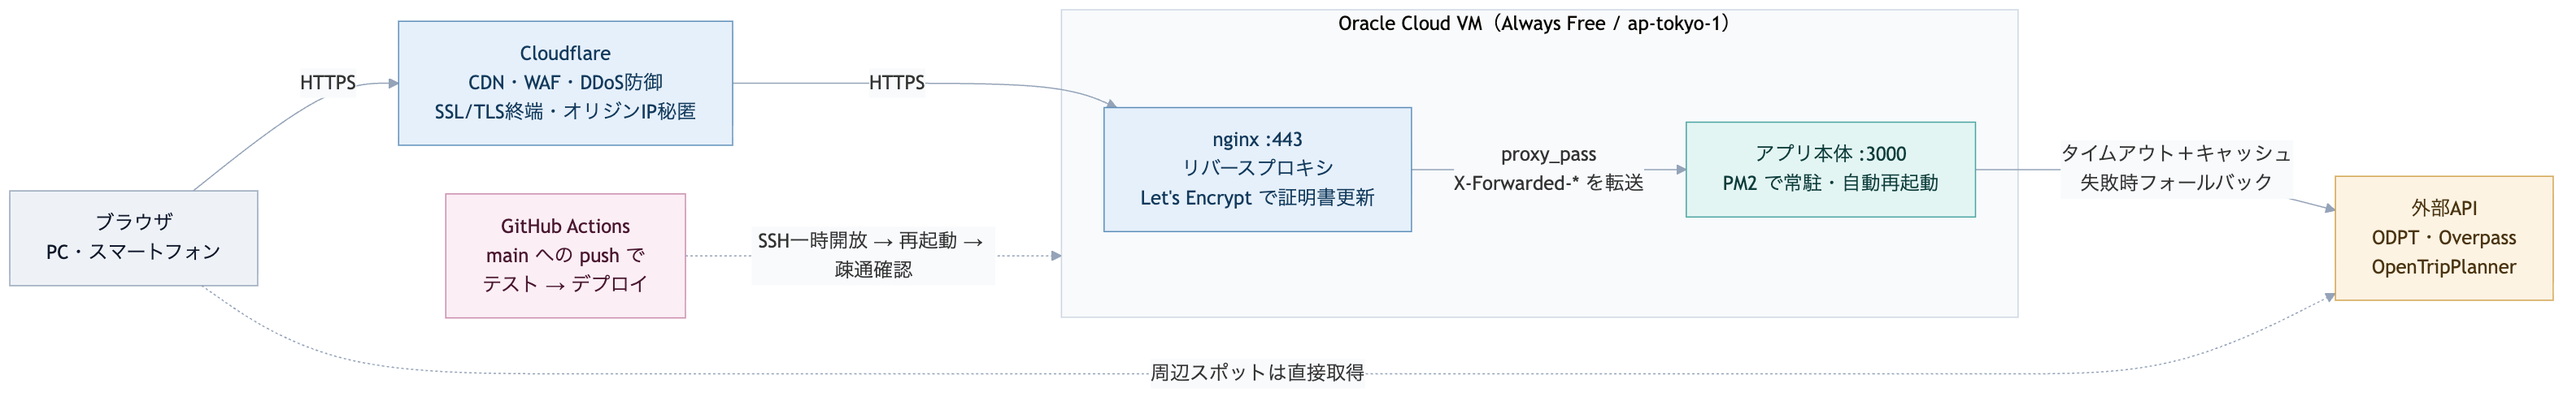
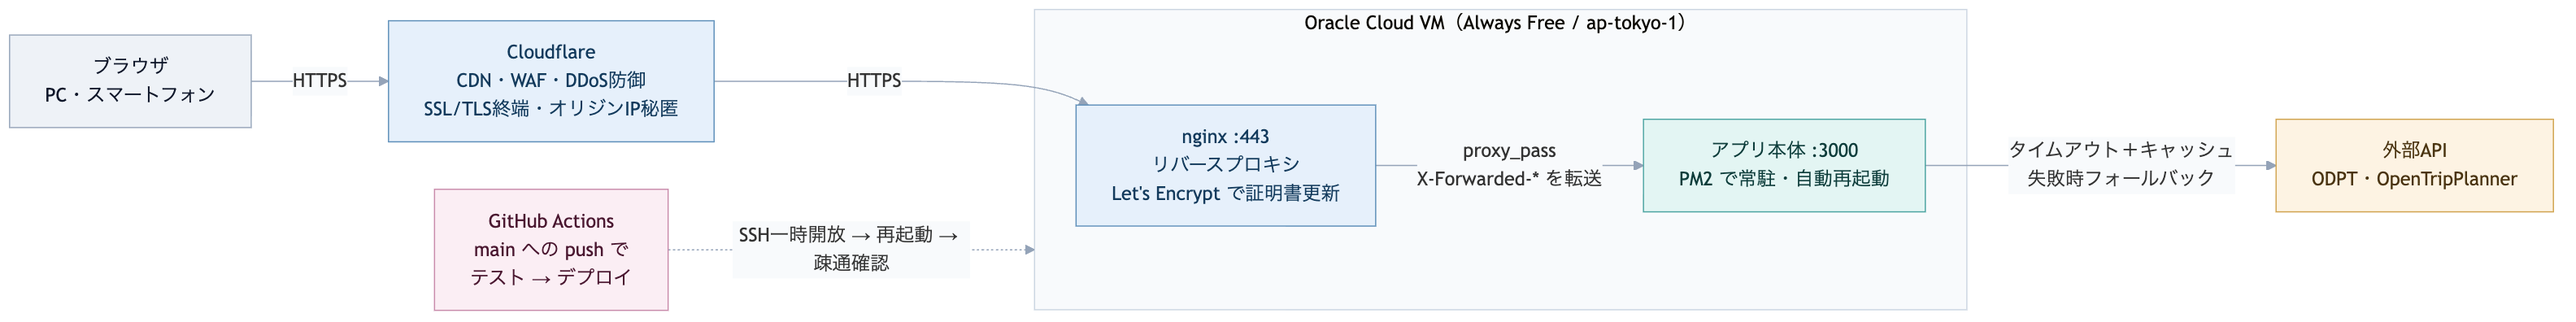
docs: drop the Overpass spot search from README diagrams
Remove /api/spots, poiService and Overpass from the server and infra
diagrams, the directory layout and the notes, and re-render the diagram
images with mermaid-cli 11 (12 no longer accepts -w).

Claude-Session: https://claude.ai/code/session_016Zu1MzDvo47AJQ9TPKMMMa

diff --git a/README.md b/README.md
@@ -84,7 +84,6 @@ flowchart LR
     subgraph RT["APIルート app/api/*/route.ts"]
       R1["GET /api/stations<br/>駅マスタ"]
       R2["POST /api/center<br/>中心駅の算出"]
-      R3["GET /api/spots<br/>GET /api/spot-categories"]
       R4["GET /api/train-information"]
       R5["GET /api/health<br/>デプロイ後の疎通確認"]
     end
@@ -95,7 +94,6 @@ flowchart LR
       GRF["stationGraph<br/>ダイクストラ法<br/>エッジ上限 12km"]
       FRE["fareEstimate<br/>運賃の概算"]
       RPV["routeProvider<br/>経路APIの差し替え口"]
-      POI["poiService<br/>Overpass クエリ組立"]
       ODP["odptTrainInformation<br/>正規化・キャッシュ"]
     end
   end
@@ -104,7 +102,6 @@ flowchart LR
 
   subgraph EX["外部API（すべて任意）"]
     E1["ODPT<br/>駅データ拡張・運行情報"]
-    E2["Overpass API<br/>周辺スポット"]
     E3["OpenTripPlanner<br/>所要時間・運賃"]
   end
 
@@ -112,13 +109,10 @@ flowchart LR
   UI --> R1
   UI --> R2
   UI --> R4
-  UI -. "直接叩けない時だけ" .-> R3
-  UI -. "既定は直接取得" .-> E2
 
   R1 --> REPO
   R2 --> REPO
   R2 --> CTR
-  R3 --> POI
   R4 --> ODP
 
   CTR --> GRF
@@ -128,7 +122,6 @@ flowchart LR
   REPO --> D
   REPO -. "ODPT_TOKEN 設定時" .-> E1
 
-  POI --> E2
   ODP --> E1
   RPV -. "ROUTING_PROVIDER=otp" .-> E3
 
@@ -140,10 +133,10 @@ flowchart LR
   classDef ci fill:#fbeef4,stroke:#c98bab,color:#4a1730
 
   class UI,PG client
-  class R1,R2,R3,R4,R5 route
-  class REPO,CTR,GRF,FRE,RPV,POI,ODP logic
+  class R1,R2,R4,R5 route
+  class REPO,CTR,GRF,FRE,RPV,ODP logic
   class D data
-  class E1,E2,E3 ext
+  class E1,E3 ext
 ```
 
 > Mermaid が描画されない環境向けに，同じ図の画像も置いています：[SVG](assets/architecture-server.svg) ／ [PNG](assets/architecture-server.png)
@@ -152,7 +145,7 @@ flowchart LR
 
 - **外部APIは無くても動く**：`data/` の同梱データと距離概算へ自動フォールバックするため，トークン未設定でも全機能が成立します．
 - **重い処理は1回だけ**：駅マスタのマージと駅グラフの構築は初回リクエストで作ってプロセス内に保持し，以降は使い回します．
-- **周辺スポットは Google マップへ渡す**：画面ではカテゴリを選んで Google マップの検索を開くだけで，外部APIは呼びません．図の `/api/spots` と Overpass は旧方式の名残で，現在の画面からは使っていません．
+- **周辺スポットは Google マップへ渡す**：画面ではカテゴリを選んで Google マップの検索を開くだけで，本サービスから外部APIは呼びません．
 
 ### 画面の構成
 
@@ -187,7 +180,6 @@ EkiHub/
 │   ├── meet/[token]/          # 共有グループの集合ページ（予定・投票）
 │   ├── themes/                # 8種のデザインテーマのCSS
 │   └── api/                   # center / stations / train-information / health と会員系のAPI
-│                              # （spots / spot-categories は旧方式の名残で，画面からは未使用）
 ├── src/
 │   ├── components/            # React コンポーネント（入力フォーム・結果カード・地図など）
 │   ├── hooks/                 # 駅マスタ・算出・履歴・共有URLなどのフック
@@ -202,8 +194,7 @@ EkiHub/
 │   ├── fareEstimate.js        # 距離からの運賃概算
 │   ├── odptTrainInformation.js# ODPT運行情報の取得・正規化・キャッシュ
 │   ├── routeProvider.js       # 経路API抽象化（Strategy Pattern・差し替え式）
-│   ├── stationKana.js         # 駅名の読みの補正
-│   └── poiService.js          # 周辺スポット取得（Overpass．現在の画面からは未使用）
+│   └── stationKana.js         # 駅名の読みの補正
 ├── data/
 │   ├── stations.js            # 埋め込み主要駅（乗降客数つき・手動キュレーション）
 │   ├── stations-osm.json      # 日本全国約8,200駅（OSM + 手動拡張・コミット対象）
@@ -291,13 +282,12 @@ flowchart LR
     NG -- "proxy_pass<br/>X-Forwarded-* を転送" --> APP
   end
 
-  EX["外部API<br/>ODPT・Overpass<br/>OpenTripPlanner"]
+  EX["外部API<br/>ODPT・OpenTripPlanner"]
   GH["GitHub Actions<br/>main への push で<br/>テスト → デプロイ"]
 
   U -- "HTTPS" --> CF
   CF -- "HTTPS" --> NG
   APP -- "タイムアウト＋キャッシュ<br/>失敗時フォールバック" --> EX
-  U -. "周辺スポットは直接取得" .-> EX
   GH -. "SSH一時開放 → 再起動 → 疎通確認" .-> VM
 
   classDef client fill:#eef2f7,stroke:#94a3b8,color:#0f172a
